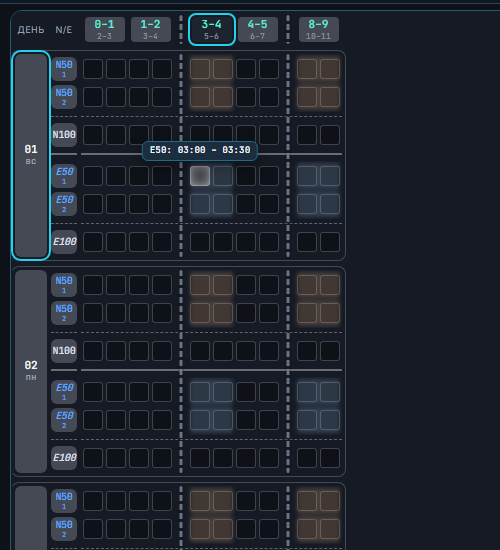
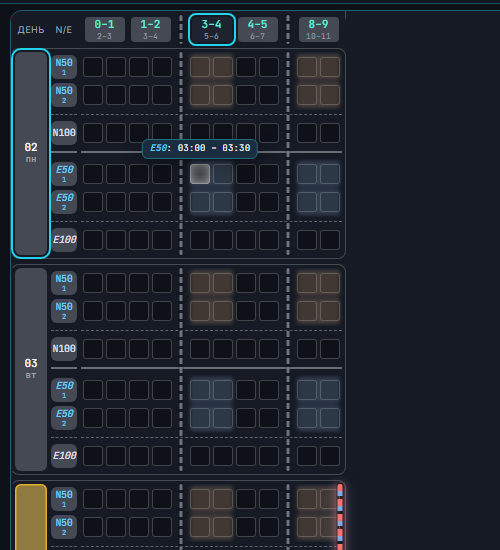
style(schedule): color tooltip limit with club palette

Changed region(s): [[0.03, 0.0618, 0.72, 1.0]]

diff --git a/apps/web/e2e/hour-load.spec.ts b/apps/web/e2e/hour-load.spec.ts
@@ -1,5 +1,6 @@
 import { expect, test, type Page } from "@playwright/test";
 import path from "node:path";
+import { DEFAULT_LIMIT_PALETTE } from "../src/schedule/limitPalette";
 
 async function enter(page: Page, player = false) {
   await page.goto("/#admin-schedule");
@@ -65,8 +66,9 @@ test("concurrent drafts reject stale same-pair writes without blocking another p
 
 for (const theme of ["dark", "light"]) {
   test(`load wash follows exact pairs and cropped hours; separators and hover label in ${theme}`, async ({ page }) => {
-    await page.addInitScript((theme) => {
+    await page.addInitScript(({theme, palette}) => {
       localStorage.setItem("v2-ui-theme", theme);
+      localStorage.setItem("redparty.demo.limit-palette.v1", JSON.stringify({...palette,"50":{dark:"#66ccff",light:"#126b44"}}));
       localStorage.setItem("v2-schedule-prefs", JSON.stringify({ limits:["50","100"], kinds:["nitro","regular"], dimPast:false, workHours:[0,1,3,4,8] }));
       const row = (tone:string) => Array.from({length:24},(_,hour) => hour === 3 || hour === 8 ? tone : null);
       localStorage.setItem("redparty.demo.hour-load.v2", JSON.stringify({ "nitro:50":row("peach"), "regular:50":row("sky") }));
@@ -74,7 +76,7 @@ for (const theme of ["dark", "light"]) {
         "50": {hours:Array(24).fill(2),days:{},weekdays:{},equalize:false,weekOn:false,monthOn:false},
         "100": {hours:Array(24).fill(1),days:{},weekdays:{},equalize:false,weekOn:false,monthOn:false},
       }));
-    }, theme);
+    }, { theme, palette: DEFAULT_LIMIT_PALETTE });
     await enter(page);
     await page.goto("/#schedule");
     const day = page.locator(".v2-opt-block").first();
@@ -91,6 +93,13 @@ for (const theme of ["dark", "light"]) {
     const cell = n50.locator('[data-slot][data-half="6"]').first();
     await cell.hover();
     await expect(page.locator(".v2-opt-frame")).toHaveText("N50: 03:00 – 03:30");
+    const frameLimit = page.locator(".v2-opt-frame-limit");
+    const frameTime = page.locator(".v2-opt-frame-time");
+    await expect(frameLimit).toHaveCSS("color", theme === "dark" ? "rgb(102, 204, 255)" : "rgb(18, 107, 68)");
+    await expect(frameLimit).toHaveCSS("font-style", "normal");
+    await expect(frameTime).toHaveCSS("font-style", "normal");
+    await expect(frameTime).toHaveCSS("font-weight", "400");
+    expect(await frameTime.evaluate(el => getComputedStyle(el).color)).toBe(await page.locator(".v2-opt-frame").evaluate(el => getComputedStyle(el).color));
     const [washBox, cellBox] = await Promise.all([wash.boundingBox(),cell.boundingBox()]);
     expect(Math.abs(washBox!.x-cellBox!.x)).toBeLessThan(1);
     expect(washBox!.y).toBeLessThan(cellBox!.y);
@@ -103,9 +112,13 @@ for (const theme of ["dark", "light"]) {
     // Same hour, different limit/type: the frame must invalidate its cached text.
     await n100.locator('[data-slot][data-half="6"]').first().hover();
     await expect(page.locator(".v2-opt-frame")).toHaveText("N100: 03:00 – 03:30");
+    await expect(frameLimit).toHaveCSS("color", theme === "dark" ? "rgb(216, 222, 233)" : "rgb(52, 59, 70)");
     await e50.locator('[data-slot][data-half="6"]').first().hover();
     await expect(page.locator(".v2-opt-frame")).toBeVisible();
     await expect(page.locator(".v2-opt-frame")).toHaveText("E50: 03:00 – 03:30");
+    await expect(frameLimit).toHaveCSS("font-style", "italic");
+    await expect(frameLimit).toHaveCSS("color", theme === "dark" ? "rgb(102, 204, 255)" : "rgb(18, 107, 68)");
+    await expect(frameTime).toHaveCSS("font-style", "normal");
     await page.screenshot({ path: path.resolve(`../../memory/tasks/2026-11-04-hour-load-grid-${theme}.png`), clip: { x:0, y:80, width:500, height:550 } });
   });
 }

diff --git a/apps/web/src/v2/optField/dom.ts b/apps/web/src/v2/optField/dom.ts
@@ -2,7 +2,7 @@ import {
   slotRangeSpan
 } from "../optFieldModel";
 import { type SlotHit } from "./types";
-import { formatVariantLimit } from "../../schedule/capacity";
+import { formatVariantLimit, limitTone } from "../../schedule/capacity";
 
 type NavMem = {
   block: Element | null;
@@ -175,7 +175,16 @@ function placeFrame(root: HTMLElement, mem: NavMem, hit: SlotHit, label: string)
   frame.style.height = "auto";
   frame.style.bottom = "auto";
   if (frame.textContent !== label) {
-    frame.textContent = label;
+    const pairLabel = formatVariantLimit(hit.variant, hit.limit);
+    const pair = document.createElement("span");
+    pair.className = "v2-opt-frame-limit";
+    pair.dataset.variant = hit.variant;
+    pair.style.color = limitTone(hit.limit);
+    pair.textContent = pairLabel;
+    const time = document.createElement("span");
+    time.className = "v2-opt-frame-time";
+    time.textContent = label.slice(pairLabel.length);
+    frame.replaceChildren(pair, time);
   }
   mem.col = col;
   frame.hidden = false;

diff --git a/apps/web/src/v2/v2.css b/apps/web/src/v2/v2.css
@@ -10832,6 +10832,10 @@ textarea.v2-ctrl.v2-cab-area {
   display: none;
 }
 
+.v2-opt-frame-limit { font-style: normal; }
+.v2-opt-frame-limit[data-variant="regular"] { font-style: italic; }
+.v2-opt-frame-time { font-style: normal; font-weight: 400; }
+
 .v2-opt-cell {
   --opt-letter: 10px;
   --opt-tables: 7px;

diff --git a/memory/tasks/2026-11-04-hour-load-groups.md b/memory/tasks/2026-11-04-hour-load-groups.md
@@ -1,6 +1,6 @@
 # Нагрузка по виду и лимиту, разделители и подсказка
 
-Обновлено: 2026-11-04 13:59 Europe/Minsk. Статус: готово локально, включая личное отключение подсветки; без публикации.
+Обновлено: 2026-11-04 14:04 Europe/Minsk. Статус: готово локально, включая цвет и начертание лимита в подсказке; без публикации.
 
 Поручение Алексея: отдельно настраивать и сохранять нагрузку по виду турнира и лимиту; подсвечивать только соответствующие строки/часы; мягкий статичный CSS-эффект чуть за границей строки; различимые группы видов/лимитов; подсказка «N25: 08:00–08:30».
 
@@ -17,6 +17,7 @@
 | Документация и память | Готово | Итоговые правила и результаты актуальны, локальные ссылки проверены | current-state, decisions, schedule-ux, database, code-architecture, operations, work-log; память проекта и центральная сводка |
 | Сворачивание всех блоков | Готово | Только управление с переключателями открыто по умолчанию; остальные блоки открываются/закрываются, черновики при сворачивании сохраняются | Шесть независимых FoldHead; пять блоков закрыты, только управление открыто. E2E RU/EN/phone и IAB; черновики нагрузки, фильтров и мёртвого времени не теряются |
 | Личное отключение подсветки | Готово | Переключатель в пользовательском окне настроек; мгновенное выключение/включение, запоминание по аккаунту и среде, сброс, RU/EN; клубные цвета прежние | Поручение Алексея; цвет нагрузки виден по умолчанию; E2E аккаунтов, reload, сброса, RU/EN, phone, IAB |
+| Цвет лимита в подсказке | Готово | Клубный цвет номинала, N прямой/E курсив, время нейтральное; переход между парами обновляет оформление | Два текстовых span, CSS-переменные существующей палитры; E2E обеих тем и пользовательских цветов |
 
 Рабочее решение агента: нагрузка — клубная настройка администратора, а не персональный браузерный слой. Хранить отдельно от ёмкости; никаких изменений числа столов/прав записи/дистанций. Старые локальные сохранения не удалять и не публиковать автоматически.
 
@@ -46,3 +47,9 @@
 201 unit, typecheck/lint и сборка прошли до визуального уточнения. Первый полный E2E выявил выход окна настроек за нижнюю границу телефона на 6 px; исправлено ограничение высоты плавающего окна с учётом его положения, содержимое прокручивается. В новом тесте EN исправлено имя тестового аккаунта. После исправления полный повтор дал 60 passed + 1 штатный skip и один сценарий со старым загруженным тестовым кодом; чистый целевой повтор трёх сценариев (RU, EN/phone, геометрия основных окон) прошёл. Итого 61 уникальный E2E успешен; сборка, types/lint и bundle 257,2/260 KiB после правки высоты прошли. База не менялась, прежние SQL-проверки не повторялись.
 
 Визуально проверены [RU / тёмная тема](2026-11-04-slot-highlight-dark.png) и [EN / телефон](2026-11-04-slot-highlight-light.png). Документация UX, решений, текущего состояния и архитектуры обновлена; session-memory сохраняет результат.
+
+## Дополнение: цвет лимита в подсказке
+
+По прямому поручению Алексея лимит в плашке наведения имеет текущий цвет клуба и начертание вида: N прямой, E курсив. Двоеточие и время сохраняют нейтральный цвет, прямой шрифт и обычную толщину. Два текстовых DOM-элемента создаются только при смене подписи, CSS-переменная палитры обновляет цвет без дополнительных обработчиков.
+
+Проверены обе темы, пользовательские цвета, переход N50 → N100 → E50 в одном часу, нейтральность времени и сохранение диапазонов объединённых смен.201 unit, types/lint/build и bundle257,2/260 прошли. Полный E2E:59 passed,1 штатный skip,2 сбоя из-за неполной палитры в тестовых данных; после исправления набора цветов оба целевых сценария прошли (61 уникальный успешный E2E). Скриншоты сетки выше обновлены и визуально проверены. Схема и облако не менялись.

diff --git a/docs/current-state.md b/docs/current-state.md
@@ -2,7 +2,7 @@
 
 4 ноября 2026: в личных настройках расписания добавлено отключение цветной подсветки нагрузки. Выбор запоминается в браузере по аккаунту и среде, сброс включает подсветку; клубные цвета остаются прежними. Дополнение к локальной ветке `codex/schedule-hour-load`, без новой миграции и без публикации.
 
-4 ноября 2026: локально добавлены независимая клубная нагрузка по `вид:лимит`, мягкая статичная CSS-подсветка точных часов, разделители групп и подсказка `N50: время`. В нагрузке, ёмкости и мёртвом времени одинаковый левый выбор двумя столбцами N/E; Regular курсивом. Все блоки сворачиваются; по умолчанию открыт только блок управления с переключателями. Рабочая ветка `codex/schedule-hour-load` поверх палитры 0994f44, без публикации и облачной миграции. Перед клиентом нужна `20261104101829_schedule_hour_load.sql` и предыдущая миграция палитры. [Отчёт](../memory/tasks/2026-11-04-hour-load-groups.md).
+4 ноября 2026: локально добавлены независимая клубная нагрузка по `вид:лимит`, мягкая статичная CSS-подсветка точных часов, разделители групп и подсказка `N50: время`. Лимит в подсказке имеет клубный цвет, Regular курсивом; время нейтральное и обычным начертанием. В нагрузке, ёмкости и мёртвом времени одинаковый левый выбор двумя столбцами N/E; Regular курсивом. Все блоки сворачиваются; по умолчанию открыт только блок управления с переключателями. Рабочая ветка `codex/schedule-hour-load` поверх палитры 0994f44, без публикации и облачной миграции. Перед клиентом нужна `20261104101829_schedule_hour_load.sql` и предыдущая миграция палитры. [Отчёт](../memory/tasks/2026-11-04-hour-load-groups.md).
 
 4 ноября 2026: локально реализована общая настраиваемая палитра лимитов клуба (5/25/50/100/250/500), отдельная для обеих тем, с покерными цветами по умолчанию и курсивом Regular. Редактор администратора расположен в самом низу настроек расписания и свёрнут. Палитра используется в сетке, календаре и JPEG; сохранение защищено серверными правами и проверкой конфликтов. В облако пока не опубликовано: перед клиентом нужна миграция `20261104095535_club_limit_palette.sql`. [Отчёт реализации](../memory/tasks/2026-11-04-club-limit-palette.md).
 

diff --git a/docs/decisions.md b/docs/decisions.md
@@ -89,6 +89,8 @@
 
 ## Сетка и столы
 
+4 ноября 2026, уточнение Алексея: в подсказке наведения цвет лимита берётся из палитры клуба, Regular курсивом, Nitro прямой. Время остаётся нейтральным и обычным начертанием, чтобы цвет быстро обозначал выбранную пару.
+
 4 ноября 2026, принято Алексеем: пользователю нужен личный переключатель «Отключить подсветку слотов» в окне настроек расписания. Реализация скрывает цвет нагрузки, по умолчанию он виден; локальное запоминание отдельно по аккаунту и среде, сброс возвращает подсветку. Общая настройка клуба не изменяется.
 
 4 ноября 2026, дополнительное указание Алексея: все блоки настроек расписания сворачиваются независимо. По умолчанию открыт только блок управления с переключателями; остальные закрыты, чтобы администратор раскрывал нужный раздел. Черновики сохраняются при сворачивании внутри страницы.
